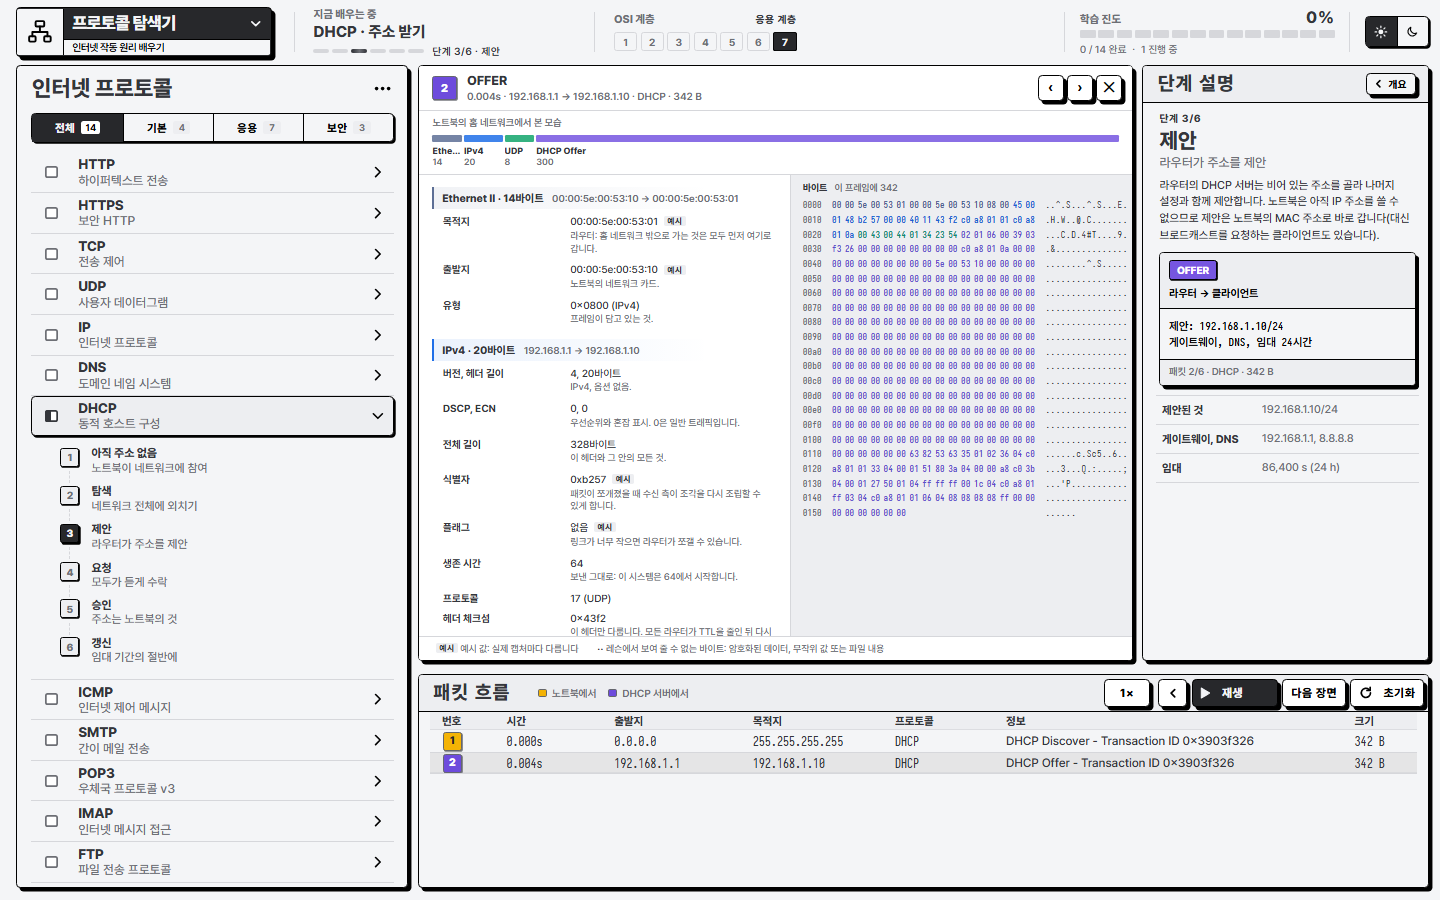
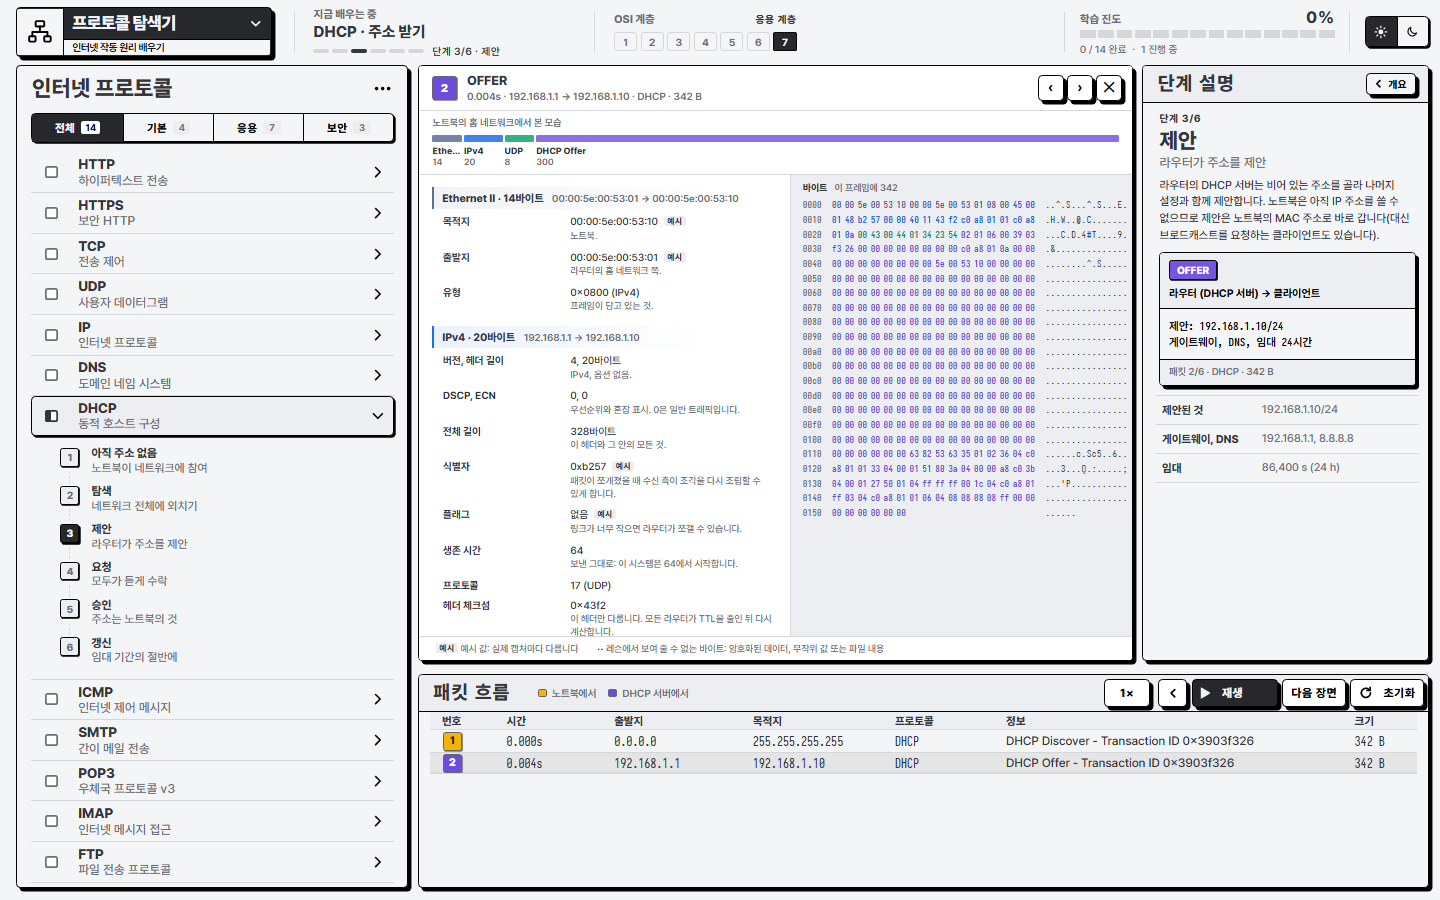
Record playback, packet direction and mobile verification results

diff --git a/hub/QUALITY.md b/hub/QUALITY.md
@@ -1,34 +1,37 @@
 # 탐색기 학습 품질 재검수
 
-2026년 11월 11일, 로컬 통합본의 여섯 탐색기와 트랜잭션 교착 시나리오를 실제 Chromium에서 확인했다. 데스크톱 대표 장면을 같은 크기로 비교하고, 일반 속도에서 중간 상태를 관찰했다. 390×844에서는 정답 확인, 수동 진행, 일시정지 후 너비 변경을 살폈다. 프로토콜은 이번에 DHCP·IP·UDP·DNS·SMTP를 표본으로 봤다. 지난 수정 때 통과한 75개 자동 검사는 다시 실행하지 않았다.
+2026년 11월 11일, 통합본의 여섯 탐색기와 트랜잭션 교착 시나리오를 Chromium에서 재생했다. 아래에는 이전 검수에서 어긋났던 순간과 수정 후 화면에서 확인한 결과를 기록했다.
 
-## 콘텐츠와 아이소메트릭 표현
+## 송수신 방향과 패킷 해설
 
-| 탐색기 | 학습자가 장면에서 읽을 수 있는 것 | 남은 한계 |
-| --- | --- | --- |
-| 프로토콜 | IP 패킷이 라우터를 거치는 경로를 그림에서 보고, 주소·포트·TTL을 표와 검사기에서 대조할 수 있다. DNS의 위임 응답과 권한 응답도 구분된다. | 노트북 주소처럼 단계에 따라 변하는 값을 고정 장치 라벨로 표시한다. UDP는 음성 손실을 처리하는 위치까지 반대로 읽힌다. |
-| CPU 스케줄링 | 같은 작업 카드를 준비 큐·CPU·입출력 장치 사이에서 추적할 수 있다. RR과 FCFS를 같은 작업으로 비교해 선점의 효과를 설명하기에 충분하다. | 한 시각에 도착·선점·배정이 겹치면 그림과 옆 작업표가 서로 다른 순간을 보여준다. |
-| 메모리 | 고정된 프레임에서 카드만 교체되어 페이지와 프레임의 차이가 보인다. FIFO·LRU에서 여섯 번째 A의 결과가 달라지는 이유도 확인할 수 있다. | 페이지가 적재되는 순간과 CPU가 읽기를 끝내는 순간을 과정표와 문구가 구분하지 못한다. |
-| 트랜잭션 | 두 클라이언트의 로컬 값, DB 행의 확정·미확정 값, 잠금 소유자와 대기자를 따로 읽을 수 있다. 롤백으로 어느 대기선이 풀리는지도 보인다. | 요청이 도착하기 전에 해설이 대기 고리나 다음 계산값을 먼저 알려준다. |
-| 디스크 스케줄링 | SSTF의 첫 선택 53 → 65에서 실제 헤드 끝이 65번 트랙에 닿는다. 이동 거리 12칸을 팔의 움직임과 연결해 볼 수 있다. | 큐에서 컨트롤러로 가는 카드와 그 아래 그려 둔 점선이 실제로 어긋난다. |
-| Git | 커밋 그래프·작업 파일·인덱스가 고정된 자리를 갖는다. 충돌 때 세 버전이 인덱스에 모이고, 선택한 문장과 두 부모의 병합 이력이 각각 남는 과정을 볼 수 있다. | 390px에서는 병합을 실행하는 위치에서 출발 커밋과 충돌 표식이 생기는 작업 파일을 동시에 볼 수 없다. |
+| 장면 | 화면에서 확인한 결과 |
+| --- | --- |
+| DHCP 임대 | 노트북은 OFFER를 받고 ACK가 이동하는 동안에도 미할당이다. ACK 도착 시 192.168.1.10/24로 바뀐다. 네트워크·시퀀스 보기, 단계 건너뛰기·되감기·초기화에서 같은 주소를 표시한다. |
+| DHCP OFFER·ACK | 예시의 유니캐스트 응답은 라우터(MAC 끝 01)에서 노트북(끝 10)으로 간다. 검사기의 목적지·출발지와 이더넷 바이트의 앞 12바이트가 일치한다. [OFFER 검사 화면](dhcp-offer-inspector.png) |
+| ACK 전송 중 회전 | 네트워크·시퀀스 보기에서 각각 정지한 뒤 390×844→844×390으로 회전하고 1.2초 기다렸다. 시퀀스 선은 약 30%에 멈췄고 화살촉과 임대 주소는 재개 후 도착할 때 나타났다. |
+| UDP 음성 | 노트북에서 보낸 7번 프레임이 손실되면 미디어 서버가 20ms 공백을 보정한다. 첫 프레임 카드는 음성 80B와 RTP 헤더 12B를 구분한다. |
+| IP·SMTP | IP 예시에서 라우터를 통과한 패킷의 TTL은 128에서 127로 바뀐다. SMTP는 수신 서버의 대기열 접수, 250 응답, 로컬 메일함 저장 순서로 보여 준다. |
 
-[실제 데스크톱 장면 여섯 개 비교](scene-comparison.jpg)
+## 일시정지·회전과 그림·해설 타이밍
 
-## 먼저 고칠 항목
+| 재현 장면 | 멈춰서 확인한 내용 |
+| --- | --- |
+| 메모리 5번, D 접근 | 적재 직후에는 프레임에 D가 있지만 CPU는 아직 읽기를 마치지 않았다. 재시도와 값 전달을 거쳐 도착할 때 과정표가 완료된다. |
+| 트랜잭션 잠금 읽기 8번·커밋 9번 | T2가 값을 받기 전에 계산 결과를 표시하지 않는다. 커밋 중 멈추고 너비를 바꿔도 확정값과 잠금은 그대로이고, 재생을 이어야 커밋이 끝난다. |
+| 교착 6번·롤백 8번 | 두 번째 대기선이 연결되면 순환 대기를 설명한다. 롤백 중 회전해도 T2의 잠금과 미확정값은 해당 단계에서 유지되며, 재생을 이으면 롤백이 한 번 기록된다. |
+| Git add·병합 충돌 | git add 중 회전해도 기록은 2건이다. 병합 중에는 C0가 인덱스에 도착하고 C2가 이동하는 시점에서 멈췄다. 회전 직후에도 인덱스에는 C0 한 줄, 기록에는 8건이 남았다. 재개 후 C2·C1과 충돌 표식이 차례로 도착했다. 해결안을 골라 C3의 부모 C2·C1까지 확인했다. |
 
-| 순서 | 재현과 관측 | 수정 후 확인할 기준 |
-| --- | --- | --- |
-| 1. 프로토콜의 송수신 주체 | DHCP 1단계 해설은 ‘주소 없음(0.0.0.0 사용)’인데 노트북에는 이미 192.168.1.10이 표시된다. 3단계의 2번 OFFER는 IP·해설 모두 라우터 → 노트북이지만, 이더넷 헤더와 바이트는 노트북 MAC(끝 10) → 라우터 MAC(끝 01)이다. UDP에서는 노트북 → 미디어 서버의 7번 프레임이 손실되고, 정상 수신한 반대 방향의 노트북이 ‘20ms 공백을 메움’으로 표시된다. | DHCP 승인 전에는 미할당, 승인 후에는 임대 주소를 표시한다. 이 예시의 유니캐스트 OFFER·ACK에서 출발 MAC은 라우터, 목적 MAC은 노트북이어야 한다. UDP는 손실된 방향의 수신 측에 보정을 표시한다. [OFFER 검사 화면](dhcp-offer-inspector.png) · [MAC 생성](../protocol-explorer-source/src/packets/encode.js#L912) · [장치 라벨](../protocol-explorer-source/src/simulation/network-animation.js#L869) · [UDP 손실](../protocol-explorer-source/src/lessons/udp.js#L199) · [보정 위치](../protocol-explorer-source/src/lessons/udp.js#L252) |
-| 2. 일시정지 중 화면 회전 | 390×844에서 사건 중간에 멈추고 창 너비만 변경한다. 메모리 5번 D는 조회에서 적재 완료로, 재고 갱신 9번은 잠금 보유에서 커밋 완료로, 교착 8번은 T2가 B를 보유한 상태에서 롤백 완료로 넘어간다. Git 3번 git add도 가로 회전만으로 기록이 2개에서 3개가 된다. | 너비를 바꾼 직후에도 카드·잠금·인덱스·기록과 정지 상태가 같아야 한다. 이어서 재생하면 멈춘 위치에서 남은 이동이 보인다. [메모리](../memory-explorer/src/scene.js#L727) · [재고](../transaction-explorer/src/scene.js#L666) · [교착](../transaction-explorer/src/deadlock-scene.js#L539) · [Git](../git-explorer/src/scene.js#L504) |
-| 3. 모바일에서 화면 밖 재생 | 390×844에서 CPU 첫 예측의 P2, 디스크 SSTF 첫 예측의 65를 고르고 실제 이동 확인을 누른다. 예측 모달이 닫힌 뒤 두 장면 모두 보이는 높이가 0px인 채 재생된다. Git 8→9에서는 인덱스만 보이고 커밋 보드와 작업 파일은 화면 위에 있다. | 확인 직후부터 이동의 출발점과 결과를 따라갈 수 있어야 한다. Git처럼 화면보다 큰 장면은 이동 단계별로 해당 영역이 보여야 한다. [CPU 확인 버튼](../cpu-scheduling-explorer/src/main.js#L558) · [디스크 확인 버튼](../disk-scheduling-explorer/src/main.js#L319) · [Git 모바일 배치](../git-explorer/src/scene.js#L112) |
-| 4. 장면보다 앞선 상태·해설 | 메모리 5번에서 D → F0, ‘접근 전’, ‘접근 재시도’가 보일 때 과정표는 ‘접근 완료’, 해설은 ‘D가 RAM에 없다’다. CPU 2ms의 첫 도착 장면에선 P1이 여전히 CPU에 있지만 왼쪽은 P2 실행 중이다. 잠금 읽기 8번에선 T2가 9를 받기 전에 계산 결과 8이 나오고, 교착 6번에서도 두 번째 대기선이 생기기 전에 순환 해설이 나온다. | 메모리의 완료는 재시도 후 실제 읽기 때, CPU의 실행 상태는 실제 배정 때, 교착의 순환 안내는 두 번째 대기선이 생길 때 바뀌어야 한다. 예측과 현재 관찰값을 문구에서 구분한다. [메모리 과정표](../memory-explorer/src/main.js#L75) · [메모리 해설](../memory-explorer/src/lesson.js#L103) · [CPU 작업표](../cpu-scheduling-explorer/src/main.js#L163) · [잠금 읽기](../transaction-explorer/src/main.js#L202) · [교착](../transaction-explorer/src/deadlock-main.js#L162) |
+메모리와 트랜잭션은 재생 중 720→390→760px로 두 번 바꿔도 메모리 접근·커밋·롤백이 각각 한 번만 완료됐다. Git은 390×844에서 844×390으로 회전한 전후에 브라우저가 보고한 애니메이션 경과 시간과 경로 진행률이 같았다.
 
-## 그다음 보완할 부분
+## 모바일 가시성·디스크 경로·CPU 배속
 
-- **패킷의 숫자 설명.** IP 4단계의 패킷 4는 TTL 127이 맞지만 검사기 주석은 ‘이 시스템은 64에서 시작’이라고 한다. 이 패킷은 노트북이 128로 보내 라우터가 1 줄인 패킷이다. UDP 첫 카드의 ‘오디오 92 B’는 검사기의 음성 80 B에 RTP 헤더 12 B를 합한 값이다. SMTP의 마지막 ‘250 queued’와 메일함 저장 사이에도 로컬 배달 한 단계를 표시하면 수신 서버의 접수와 최종 배달을 구분하기 쉽다. [TTL 설명](../protocol-explorer-source/src/packets/encode.js#L1604) · [음성 크기](../protocol-explorer-source/src/lessons/udp.js#L139) · [SMTP 마지막 사건](../protocol-explorer-source/src/lessons/smtp.js#L743)
-- **CPU와 디스크의 배속.** CPU 4ms에서 1× → 2×로 바꾸자 P3의 진행량이 0.5 → 0.1ms로 돌아가고 P2의 입출력 남은 시간은 2.5 → 2.9ms로 늘었다. 배속을 바꿔도 작업 진행량은 역행하지 않아야 한다. 디스크에서는 진행 중인 53 → 65 이동이 2× 버튼을 누른 후에도 기존 1,098ms로 끝났다. [CPU 경과 시간](../cpu-scheduling-explorer/src/main.js#L536) · [디스크 이동 시간](../disk-scheduling-explorer/src/scene.js#L76)
-- **디스크의 연결선.** 1440px 화면에서 SSTF의 첫 65번 카드 중심은 수직 점선에서 가로 93px, 도착점은 포트에서 아래로 42px 벗어났다. 같은 장면의 390px 측정값은 각각 8px와 14px다. 큐·점선·포트가 같은 경로를 사용해야 선택한 요청이 디스크에 전달되는 과정이 읽힌다. [카드의 이동 좌표](../disk-scheduling-explorer/src/scene.js#L90)
-- **CPU 수동 단계의 재생 버튼.** 정지 상태에서 ‘1ms 다음’을 눌러 이동 중일 때 버튼이 ‘이어서 재생’을 표시한다. 이때 한 번 누르면 자동 재생을 켜고 두 번째에야 멈춘다. 수동 이동 중에도 한 번 눌러 현재 장면을 멈출 수 있어야 한다. [버튼 상태](../cpu-scheduling-explorer/src/main.js#L238) · [재생 처리](../cpu-scheduling-explorer/src/main.js#L308)
+- 390×844에서 CPU의 P2와 디스크 SSTF의 65번을 예측하고 확인을 눌렀다. CPU 장면 766px와 디스크 장면 532px가 첫 이동부터 뷰포트에 들어왔다. 터치·키보드로 확인했으며 모션 감소 설정에서도 도착 상태를 확인했다.
+- 디스크 SSTF 53→65에서 선택한 카드 중심과 점선, 점선 끝과 컨트롤러 포트가 데스크톱·모바일 모두 0.1px 이내로 일치했다. 헤드 이동 중 선택한 2×가 현재 이동에 적용됐다.
+- 디스크 FCFS 53→98에서도 요청 카드를 멈추고 화면을 바꿨다. 1440→390px로 바꿀 때 포트에서 371.61px 벗어나던 종점 오차가 0.001px 미만으로 줄었다. 정지 중에는 헤드 53·기록 0건을 유지했고 재개 후 98번 트랙에 도착해 45칸을 더했다.
+- CPU 2ms에서는 P3 도착 → P1 선점 → P2 배정 순서로 작업표·해설·기록이 바뀌었다. 4ms에서 1×를 2×로 올렸을 때 P3의 CPU 사용량은 0.4→0.5ms, P2의 남은 입출력 시간은 2.6→2.5ms로 진행했다. 수동 한 단계는 한 번 눌러 멈출 수 있고, 재개하면 그 단계 끝에서 멈춘다.
+- CPU의 세 이동을 각각 일시정지한 뒤 390→844→1440→390px로 화면을 바꿨다. 각 카드의 경로 진행률과 사건 기록은 그대로였고 이동을 마쳤을 때만 기록이 6건이 됐다. 이동 중에는 작은 카드에 작업 ID를, 도착하면 전체 이름과 남은 시간을 표시한다.
+- Git 병합에서는 세로 화면에 출발 커밋과 인덱스가 함께 들어왔다. 짧은 가로 화면에서는 이동 중인 카드를 따라가고, 충돌 표식이 도착하면 작업 파일이 보였다.
 
-프로토콜의 기대 동작은 해당 RFC와 대조했다. [DHCP 서버 응답](https://www.rfc-editor.org/rfc/rfc2131.html#section-4.1) · [라우터의 TTL 처리](https://www.rfc-editor.org/rfc/rfc1812.html#section-5.3.1) · [RTP 헤더](https://www.rfc-editor.org/rfc/rfc3550.html#section-5.1) · [수신 측의 Opus 손실 보정](https://www.rfc-editor.org/rfc/rfc7587.html#section-3.3) · [SMTP 수신 책임](https://www.rfc-editor.org/rfc/rfc5321.html#section-6.1)
+각 소스 저장소의 자동 검사 81개가 통과했다. 프로토콜 25개, CPU 17개, 메모리 11개, 트랜잭션 18개, 디스크 3개, Git 7개다. 모바일 검증은 Chromium의 모바일 화면과 터치 입력 에뮬레이션으로 진행했다.
+
+[데스크톱 대표 장면 여섯 개 비교](scene-comparison.jpg)
